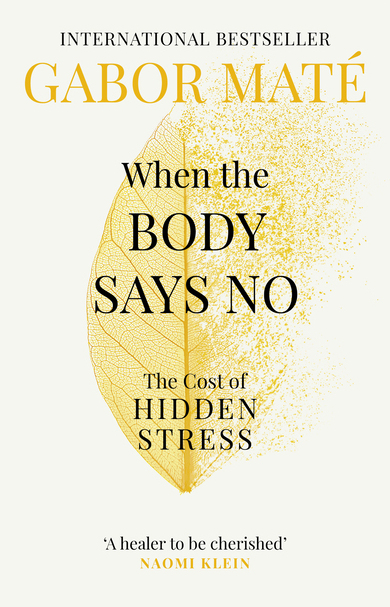
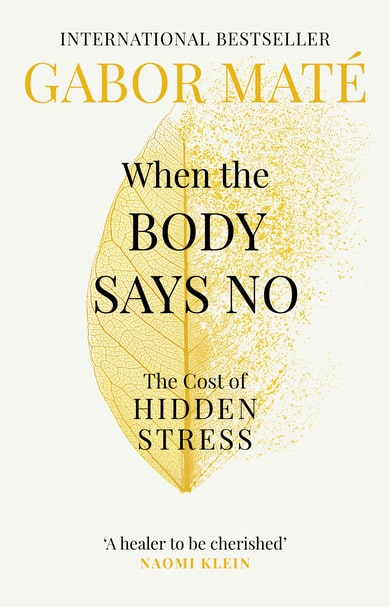
images optimised; other articles UI updated;

diff --git a/client/src/components/Card/index.js b/client/src/components/Card/index.js
@@ -1,8 +1,8 @@
 import React from 'react';
 import './Card.scss';
 
-export const Card = ({ item, thumbnail }) => {
-    const { title, subtitle, summary, link, button, icon } = item;
+export const Card = ({ item }) => {
+    const { title, subtitle, summary, link, button, publication, logo } = item;
     return (
         <div className='card'>
             <div className='card__desc'>
@@ -34,21 +34,10 @@ export const Card = ({ item, thumbnail }) => {
                     </div>
                 )}
             </div>
-            {link && (
-                <a
-                    href={link.url}
-                    target='_blank'
-                    rel='noopener noreferrer'
-                    className='card__icon'
-                >
-                    {icon && <img src={icon} alt='' />}
-                    <span className='sr-only'>{title}</span>
-                </a>
-            )}
-            {button && icon && (
-                <span className='card__icon'>
-                    <img src={icon} alt='' />
-                </span>
+            {logo && (
+                <div className='card__logo'>
+                    <img src={logo} alt={publication} />
+                </div>
             )}
         </div>
     );

diff --git a/client/src/components/Card/Card.scss b/client/src/components/Card/Card.scss
@@ -16,10 +16,10 @@
         margin-top: 2rem;
     }
 }
-.card__icon img {
-    height: 9rem;
-    margin: 0 4rem 0 8rem;
-    opacity: 0.1;
+
+.card__logo img {
+    max-width: 20rem;
+    margin-left: 4rem;
 }
 .card__title {
     font-family: $FONT_FAMILY_HEADINGS;
@@ -41,19 +41,13 @@
 @include tablet {
     .card {
         width: 80%;
-        display: block;
+        flex-direction: column-reverse;
+        align-items: flex-start;
     }
-    .card__title {
-        width: 75%;
-    }
-    .card__icon {
-        position: absolute;
-        left: 0;
-        top: 4rem;
-        width: 100%;
-        text-align: right;
+
+    .card__logo {
         img {
-            height: 6rem;
+            margin: 0 0 2rem;
         }
     }
 }
@@ -62,21 +56,12 @@
         padding: 10rem 0;
     }
     .card {
-        text-align: left;
         width: 85%;
         padding: 6.7rem 3rem 4.4rem;
-    }
-    .card__icon {
-        top: 2rem;
-        left: 1rem;
-        img {
-            height: 8rem;
-            opacity: 0.1;
-        }
     }
 }
 @include mobile-sm {
     .card__title {
-        width: 80%;
+        width: 90%;
     }
 }

diff --git a/client/src/pages/Articles/components/ArticleRow.js b/client/src/pages/Articles/components/ArticleRow.js
@@ -1,7 +1,6 @@
 import React, { useState } from 'react';
 import { ArticlePost } from './ArticlePost';
 import { Card } from '../../../components/Card';
-import pen from '../../../imgs/pen.png';
 import dayjs from 'dayjs';
 
 export const ArticleRow = ({ article }) => {
@@ -37,7 +36,8 @@ export const ArticleRow = ({ article }) => {
             onClick: onOpen,
             label: 'Read on',
         },
-        icon: pen,
+        logo: article.logo ? require('../../../imgs/' + article.logo) : null,
+        publication: article.publication,
     };
 
     return (

diff --git a/client/src/pages/Articles/components/articles/ChildAbuseInquary.js b/client/src/pages/Articles/components/articles/ChildAbuseInquary.js
@@ -20,7 +20,8 @@ export default {
     publication: 'East London Advertiser',
     sourceUrl:
         'https://www.eastlondonadvertiser.co.uk/news/local-council/child-sex-abuse-inquiry-preview-3672056',
-    img: 'bunny.jpg',
+    img: 'elAdvertiserBg.jpg',
+    logo: 'elAdvertiserLogo.png',
     content: (
         <>
             <p>

diff --git a/client/src/pages/Articles/components/articles/AbuseKeptSecret.js b/client/src/pages/Articles/components/articles/AbuseKeptSecret.js
@@ -13,7 +13,8 @@ export default {
     publication: 'New Statesman',
     sourceUrl:
         'https://www.newstatesman.com/2021/02/two-thirds-child-sex-abuse-survivors-kept-assaults-secret-time',
-    img: 'robot.jpg',
+    img: 'newstatesmanBg.png',
+    logo: 'newstatesmanLogo.png',
     content: (
         <>
             <p>
